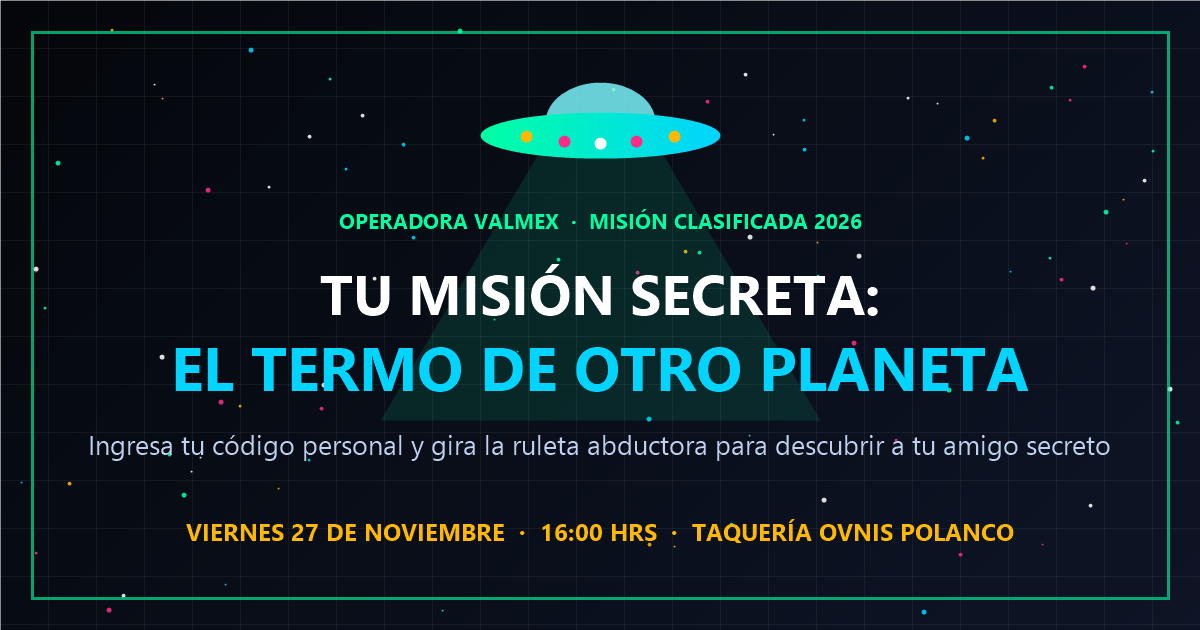
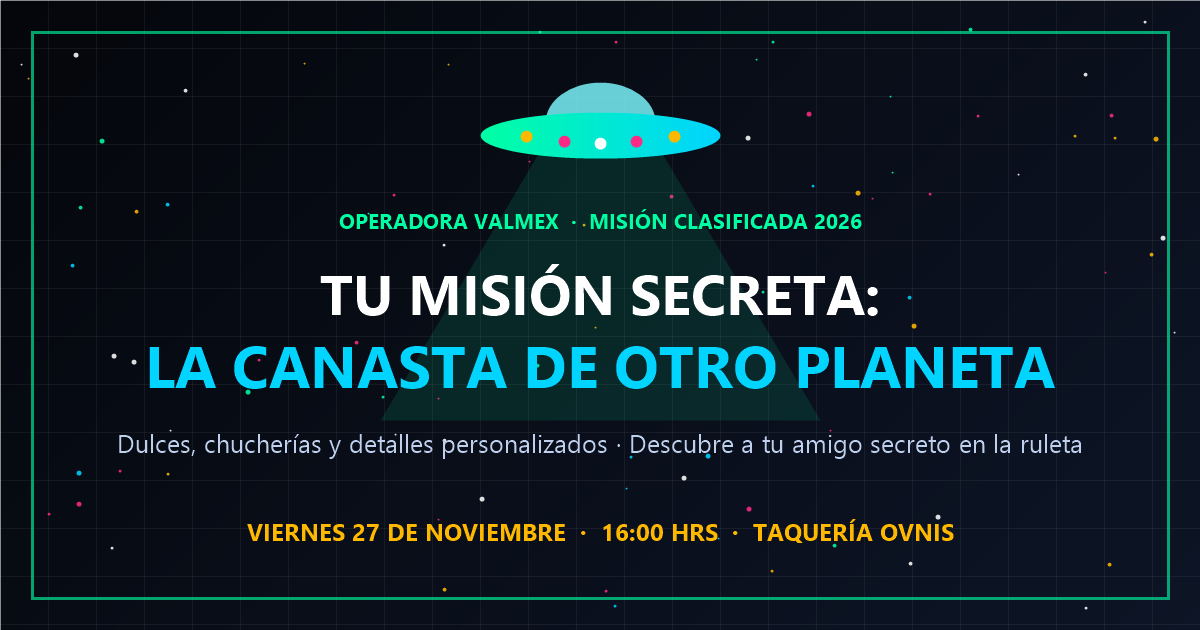
Switch exchange item from thermos to personalized gift basket

Changed region(s): [[0.1233, 0.5429, 0.8942, 0.6333], [0.1542, 0.8143, 0.8633, 0.8746], [0.0617, 0.6937, 0.925, 0.7238]]

diff --git a/index.html b/index.html
@@ -4,12 +4,12 @@
 <meta charset="utf-8">
 <meta name="viewport" content="width=device-width, initial-scale=1, viewport-fit=cover">
 <title>OVNI MISSION · Operadora VALMEX 2026</title>
-<meta name="description" content="Invitación oficial al intercambio de termos personalizados de Operadora VALMEX. Ingresa tu código secreto y descubre a tu amigo secreto en la ruleta.">
+<meta name="description" content="Invitación oficial al intercambio de canastas de regalo personalizadas de Operadora VALMEX. Ingresa tu código secreto y descubre a tu amigo secreto en la ruleta.">
 <meta name="theme-color" content="#00ffa3">
 <meta property="og:type" content="website">
 <meta property="og:site_name" content="Operadora VALMEX · Misión Clasificada 2026">
-<meta property="og:title" content="🛸 OVNI MISSION · Tu misión: El termo de otro planeta">
-<meta property="og:description" content="Ingresa tu código secreto personal y gira la ruleta abductora para descubrir a quién le diseñarás su termo. Viernes 27 nov · 16:00 hrs · Taquería Ovnis.">
+<meta property="og:title" content="🛸 OVNI MISSION · Tu misión: La canasta de otro planeta">
+<meta property="og:description" content="Ingresa tu código secreto personal y gira la ruleta abductora para descubrir a quién le armarás su canasta personalizada. Viernes 27 nov · 16:00 hrs · Taquería Ovnis.">
 <meta property="og:url" content="https://zarateandric.github.io/fiesta-opvalmex/">
 <meta property="og:image" content="https://zarateandric.github.io/fiesta-opvalmex/og-cover.png">
 <meta property="og:image:type" content="image/png">
@@ -222,8 +222,8 @@ footer{padding:34px 0 calc(52px + env(safe-area-inset-bottom,0px));text-align:ce
 <header class="hero">
   <div class="wrap">
     <div class="badge-row"><span class="pulse"></span> Transmisión oficial · Acceso por código</div>
-    <h1>Tu misión secreta: <span>el termo de otro planeta</span></h1>
-    <p class="lead">Antes de aterrizar en Taquería Ovnis para cerrar el año, tienes una misión confidencial: ingresar tu código personal y descubrir a quién del equipo le vas a diseñar un termo legendario.</p>
+    <h1>Tu misión secreta: <span>la canasta de otro planeta</span></h1>
+    <p class="lead">Antes de aterrizar en Taquería Ovnis para cerrar el año, tienes una misión confidencial: ingresar tu código personal y descubrir a quién del equipo le vas a armar una canasta de regalo personalizada con dulces, chucherías y detalles que te recuerden a esa persona.</p>
     <div class="meta-pills" id="metaPills"></div>
     <div class="cta"><a class="btn" href="#ruleta">🔐 Desbloquear mi ruleta</a><a class="btn ghost" href="#dinamica">Ver instrucciones</a></div>
 
@@ -275,7 +275,7 @@ footer{padding:34px 0 calc(52px + env(safe-area-inset-bottom,0px));text-align:ce
         <div class="reveal">
           <small id="saludo">Objetivo asignado</small>
           <strong id="ganador">Nombre</strong>
-          <div class="tip"><b id="tipTitulo">🛸 Perfil cósmico para su termo</b><span id="tip"></span></div>
+          <div class="tip"><b id="tipTitulo">🛸 Perfil cósmico para su canasta</b><span id="tip"></span></div>
           <div class="screenshot-tip">📸 Tip: ¡Tómale screenshot a esta tarjeta para que no olvides a tu amigo secreto ni su pista!</div>
           <span class="auto-hide-msg" id="autoHideMsg">Por seguridad, esta pantalla se ocultará automáticamente en 45 s.</span>
           <button class="btn ghost" id="ocultar" style="margin-top:14px">🙈 Ocultar y bloquear ahora</button>
@@ -290,7 +290,7 @@ footer{padding:34px 0 calc(52px + env(safe-area-inset-bottom,0px));text-align:ce
   <div class="wrap">
     <div class="classified-box">
       <div class="signal-pill"><span class="signal-dot"></span> Transmisión clasificada · Nivel de acceso 02</div>
-      <h2 class="classified-title">El termo es solo la <span>Fase 1 de la abducción</span></h2>
+      <h2 class="classified-title">La canasta es solo la <span>Fase 1 de la abducción</span></h2>
       <p class="lead" style="margin-bottom:14px">Los radares de Operadora VALMEX detectan coordenadas ocultas para el viernes 27 de noviembre. Lo que ocurrirá después del intercambio permanece bajo estricto secreto galáctico.</p>
       <div class="radar-bar" aria-hidden="true"><div class="radar-fill"></div></div>
       <div class="radar-meta"><span>Estado del sistema: <b>Fase 1 activa</b></span><span>Archivos siguientes: <b>[CLASIFICADO]</b></span></div>
@@ -318,7 +318,7 @@ footer{padding:34px 0 calc(52px + env(safe-area-inset-bottom,0px));text-align:ce
   });
 
   /* Payload cifrado (participantes, bóveda SHA-256 y pistas personalizadas ofuscadas) */
[2 lines of base64/hex data omitted]
   function uPayload(b64){
     var bin=atob(b64),k="OVNI-VALMEX-2026-CORE-SHIELD",out=new Uint8Array(bin.length);
     for(var i=0;i<bin.length;i++)out[i]=bin.charCodeAt(i)^k.charCodeAt(i%k.length);
@@ -327,11 +327,11 @@ footer{padding:34px 0 calc(52px + env(safe-area-inset-bottom,0px));text-align:ce
   var DB=uPayload(_P),PARTICIPANTES=DB.p,VAULT=DB.v,FRASES=DB.f;
 
   /* Construcción dinámica compacta de UI */
-  var tItems="<span>🛸 MISIÓN CLASIFICADA · OPERADORA VALMEX 2026</span><span>🥤 INTERCAMBIO DE TERMOS PERSONALIZADOS</span><span>🌮 VIERNES 27 NOV · 16:00 HRS · TAQUERÍA OVNIS</span>";
+  var tItems="<span>🛸 MISIÓN CLASIFICADA · OPERADORA VALMEX 2026</span><span>🧺 INTERCAMBIO DE CANASTAS PERSONALIZADAS</span><span>🌮 VIERNES 27 NOV · 16:00 HRS · TAQUERÍA OVNIS</span>";
   $("ticker").innerHTML='<div class="ticker-track">'+tItems+'</div><div class="ticker-track">'+tItems+'</div>';
   [["📅",CFG.fecha],["🕓",CFG.hora],["📍",CFG.lugar]].forEach(function(x){$("metaPills").insertAdjacentHTML("beforeend",'<span class="meta-pill">'+x[0]+" "+x[1]+"</span>");});
-  [["🔐","Ingresa tu código secreto","Escribe tu código personal (OVNI-XXXX) abajo para identificarte automáticamente y desbloquear la ruleta."],["🔥","Personaliza el termo","Grabado láser, vinil o stickers waterproof con su frase de oficina, hobby, equipo o color favorito."],["🎁","Llévalo listo para sorprender","El viernes 27 de noviembre entregaremos los termos en la fiesta y descubriremos quién diseñó cada uno."]].forEach(function(s){$("stepsBox").insertAdjacentHTML("beforeend",'<div class="step"><div class="step-ico">'+s[0]+'</div><div class="step-head">'+s[1]+"</div><p>"+s[2]+"</p></div>");});
-  ["🥤 Exclusivo: Termo personalizado","🎁 Entrega: el viernes 27 en la fiesta","🤫 Misión 100% confidencial"].forEach(function(t){$("reglas").insertAdjacentHTML("beforeend",'<span class="chip">'+t+"</span>");});
+  [["🔐","Ingresa tu código secreto","Escribe tu código personal (OVNI-XXXX) abajo para identificarte automáticamente y desbloquear la ruleta."],["🧺","Arma su canasta personalizada","Llénala con sus dulces, chucherías, snacks o cualquier detalle especial que te recuerde a esa persona."],["🎁","Llévala lista para sorprender","El viernes 27 de noviembre entregaremos las canastas en la fiesta y descubriremos quién armó cada una."]].forEach(function(s){$("stepsBox").insertAdjacentHTML("beforeend",'<div class="step"><div class="step-ico">'+s[0]+'</div><div class="step-head">'+s[1]+"</div><p>"+s[2]+"</p></div>");});
+  ["🧺 Exclusivo: Canasta de regalo personalizada","🎁 Entrega: el viernes 27 en la fiesta","🤫 Misión 100% confidencial"].forEach(function(t){$("reglas").insertAdjacentHTML("beforeend",'<span class="chip">'+t+"</span>");});
   [["X-02","🛸","Anomalía en Acercamiento",'Coordenadas bloqueadas. Una <span class="redact">dinámica sorpresa</span> pondrá a prueba a toda la tripulación durante el aterrizaje.'],["X-03","🔮","Protocolo Confidencial",'Acceso restringido hasta nuevo aviso. Solo sabemos que habrá <span class="redact">momentos épicos</span> y <span class="redact">sorpresas clasificadas</span>.'],["X-04","🌌","Transmisión Final",'Señal encriptada desde <span class="redact">Taquería Ovnis</span>. Prepárate para una tarde fuera de este planeta para cerrar el 2026.']].forEach(function(x){$("teasersBox").insertAdjacentHTML("beforeend",'<div class="teaser" onclick="this.classList.toggle(\'peek\')"><span class="teaser-lock">🔒 Expediente '+x[0]+'</span><div class="teaser-ico">'+x[1]+"</div><h3>"+x[2]+"</h3><p>"+x[3]+'</p><span class="teaser-hint">👆 Pasa el cursor o toca para desencriptar pista</span></div>');});
   $("pie").innerHTML="🛸 Operadora VALMEX · "+CFG.fecha+" · "+CFG.hora+" · "+CFG.lugar;
   $("cdSub").textContent=CFG.fecha+" · "+CFG.hora;
@@ -402,8 +402,8 @@ footer{padding:34px 0 calc(52px + env(safe-area-inset-bottom,0px));text-align:ce
       var idx=Math.floor(mod(1.5*Math.PI-rot)/arc)%N;if(idx!==last){last=idx;beep(540,.035);}
       if(p<1)requestAnimationFrame(f);else{
         spin=false;btn.disabled=false;inp.disabled=false;vBtn.disabled=false;
-        $("saludo").textContent="⚡ "+giver+", te toca personalizar el termo de:";$("ganador").textContent=target;
-        $("tipTitulo").textContent="🛸 Pista cósmica sobre "+target;$("tip").textContent=FRASES[target]||"Un termo único y con toda la actitud.";
+        $("saludo").textContent="⚡ "+giver+", te toca armarle su canasta personalizada a:";$("ganador").textContent=target;
+        $("tipTitulo").textContent="🛸 Pista cósmica sobre "+target;$("tip").textContent=FRASES[target]||"Una canasta única llena de dulces, chucherías y toda la actitud.";
         res.classList.remove("hide");beep(660,.15);setTimeout(function(){beep(920,.32);},160);
         if(typeof confetti==="function")confetti({particleCount:110,spread:80,origin:{y:.65},colors:["#00ffa3","#00d4ff","#ffb800","#ff2a85","#ffffff"]});
         clearTimeout(hideT);hideT=setTimeout(function(){$("ocultar").click();},45000);
